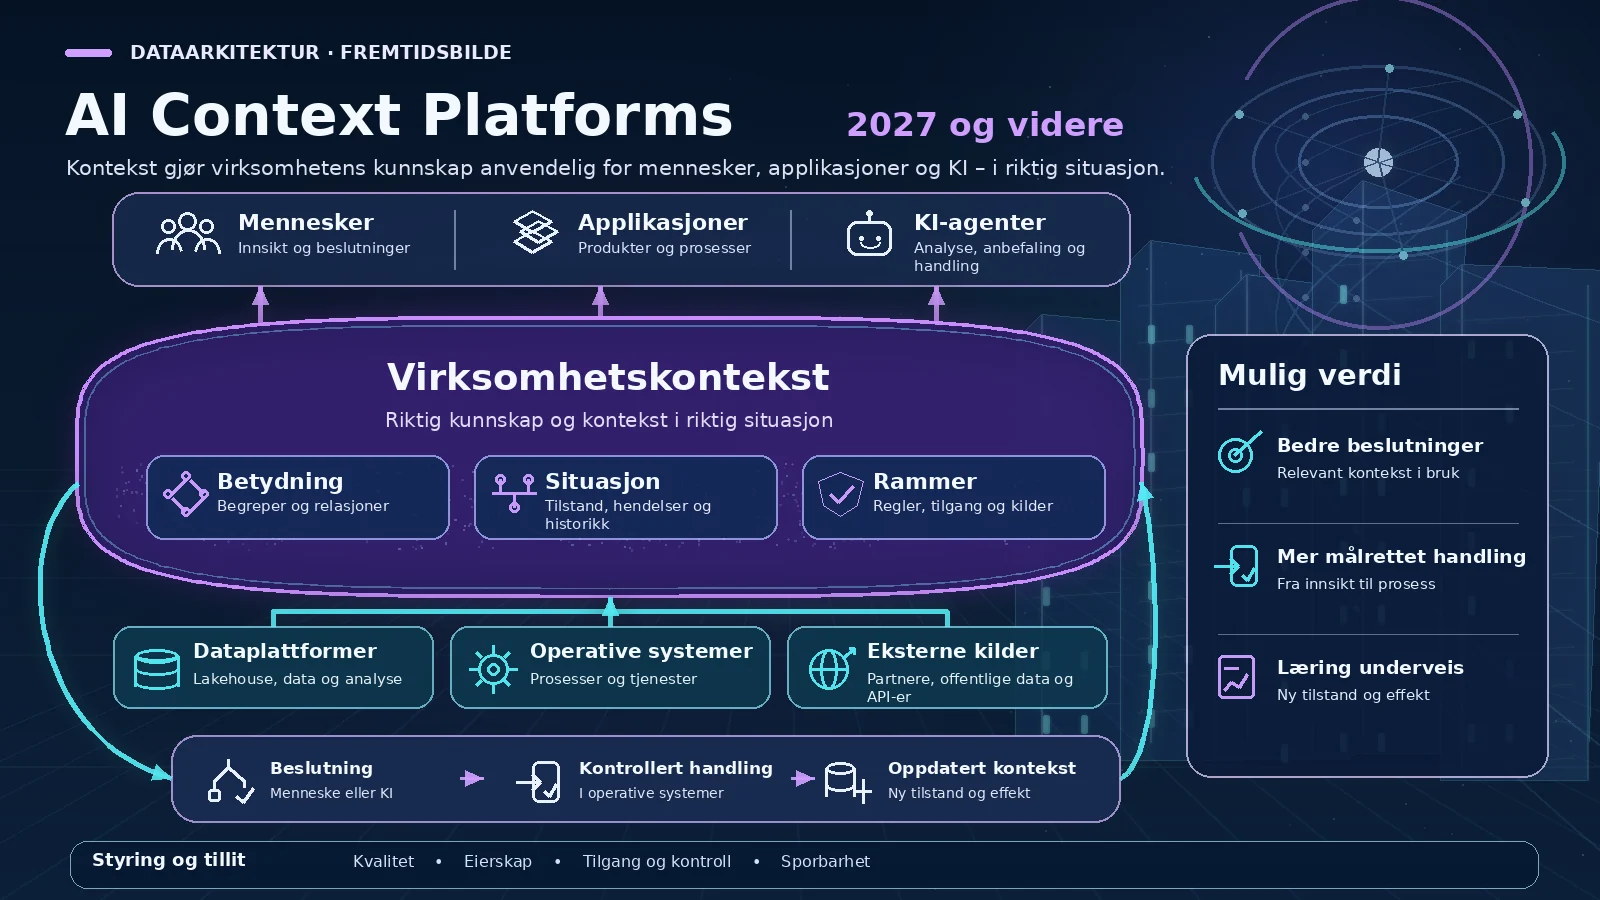
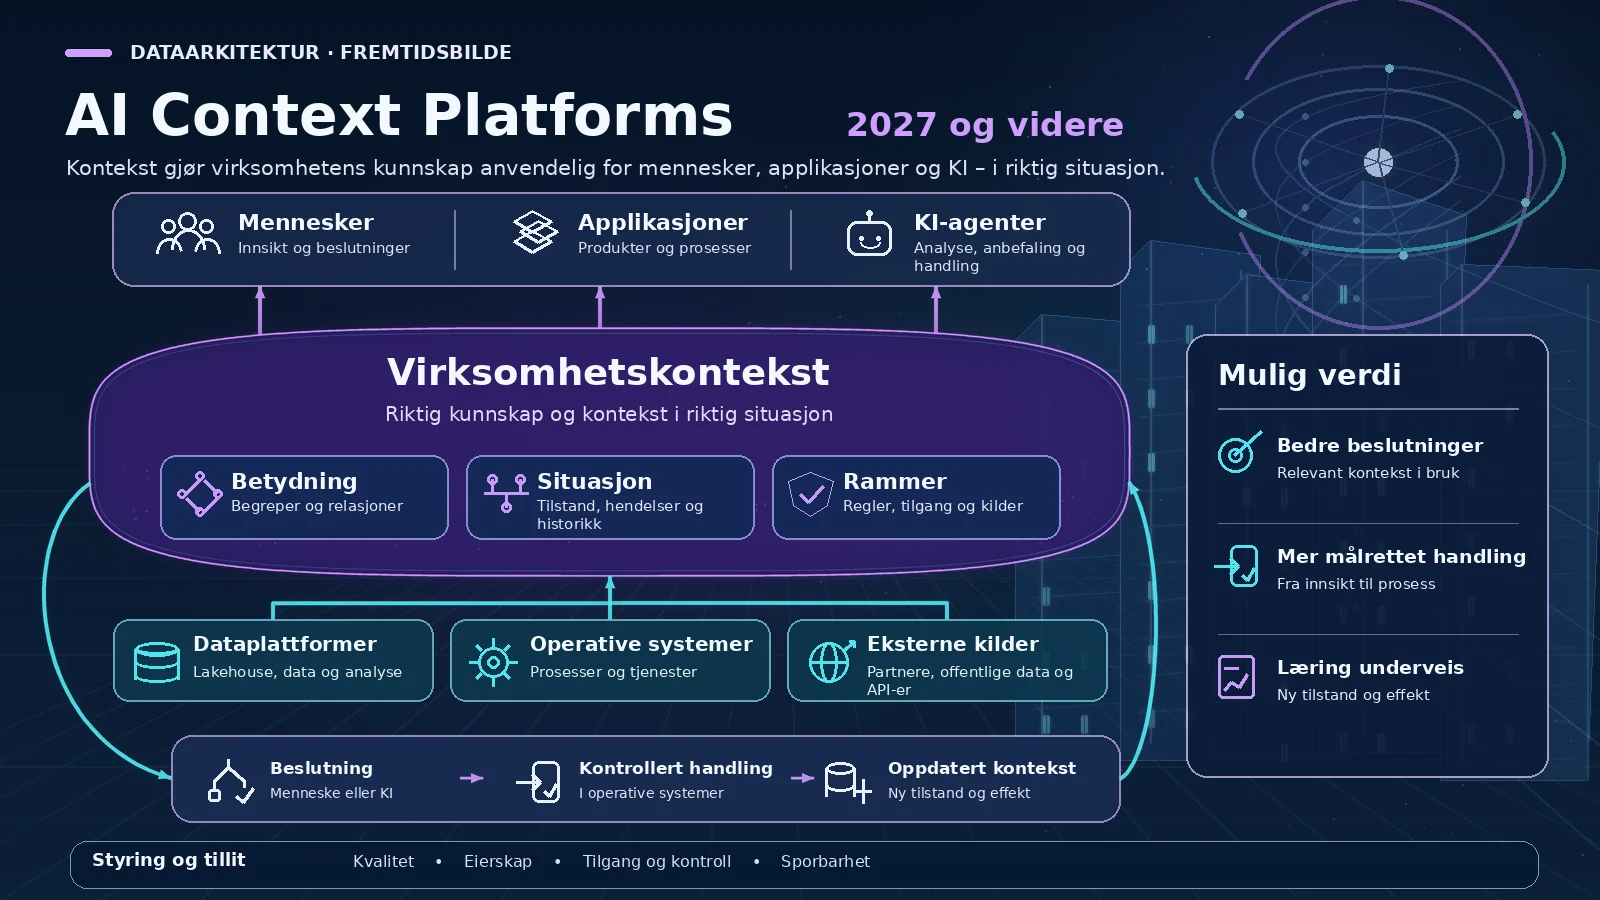
release 0.18.106: slankere figurer og antialiasing

Changed region(s): [[0.0, 0.3422, 0.7188, 0.8089], [0.6875, 0.8089, 0.7188, 0.84]]

diff --git a/docs/index.html b/docs/index.html
@@ -6,17 +6,17 @@
   <meta name="color-scheme" content="light" />
   <meta name="description" content="Marked, salgsinnganger og praktisk kundedialog for fagområdet Innsikt." />
   <title>Innsikt · Marked og salg</title>
-  <link rel="stylesheet" href="./assets/site.css?v=0.18.105" />
-  <link rel="stylesheet" href="./assets/slide-visuals.css?v=0.18.105" />
-  <link rel="stylesheet" href="./assets/slide-story-scenes.css?v=0.18.105" />
-  <link rel="stylesheet" href="./assets/architecture-visuals.css?v=0.18.105" />
-  <link rel="stylesheet" href="./assets/vendor-architectures.css?v=0.18.105" />
-  <link rel="stylesheet" href="./assets/architecture-explorer.css?v=0.18.105" />
-  <link rel="stylesheet" href="./assets/slide-editorial-system.css?v=0.18.105" />
-  <link rel="stylesheet" href="./assets/slide-visual-narratives.css?v=0.18.105" />
-  <link rel="stylesheet" href="./assets/scene-art.css?v=0.18.105" />
-  <link rel="stylesheet" href="./assets/context-native-svg.css?v=0.18.105" />
-  <link rel="stylesheet" href="./assets/presentation-illustrations.css?v=0.18.105" />
+  <link rel="stylesheet" href="./assets/site.css?v=0.18.106" />
+  <link rel="stylesheet" href="./assets/slide-visuals.css?v=0.18.106" />
+  <link rel="stylesheet" href="./assets/slide-story-scenes.css?v=0.18.106" />
+  <link rel="stylesheet" href="./assets/architecture-visuals.css?v=0.18.106" />
+  <link rel="stylesheet" href="./assets/vendor-architectures.css?v=0.18.106" />
+  <link rel="stylesheet" href="./assets/architecture-explorer.css?v=0.18.106" />
+  <link rel="stylesheet" href="./assets/slide-editorial-system.css?v=0.18.106" />
+  <link rel="stylesheet" href="./assets/slide-visual-narratives.css?v=0.18.106" />
+  <link rel="stylesheet" href="./assets/scene-art.css?v=0.18.106" />
+  <link rel="stylesheet" href="./assets/context-native-svg.css?v=0.18.106" />
+  <link rel="stylesheet" href="./assets/presentation-illustrations.css?v=0.18.106" />
   <link rel="icon" href="./assets/favicon.svg" type="image/svg+xml" />
   
 </head>
@@ -52,27 +52,27 @@
     </div>
   </div>
   <div id="overlay-root"></div>
-  <script src="./assets/content.js?v=0.18.105" defer></script>
-  <script src="./assets/learning.js?v=0.18.105" defer></script>
-  <script src="./assets/prompt-context.js?v=0.18.105" defer></script>
-  <script src="./assets/prompt-workload.js?v=0.18.105" defer></script>
-  <script src="./assets/prompts.js?v=0.18.105" defer></script>
-  <script src="./assets/horizon.js?v=0.18.105" defer></script>
-  <script src="./assets/glossary.js?v=0.18.105" defer></script>
-  <script src="./assets/presenter-export.js?v=0.18.105" defer></script>
-  <script src="./assets/slide-model.js?v=0.18.105" defer></script>
-  <script src="./assets/presentation-content.js?v=0.18.105" defer></script>
-  <script src="./assets/visual-assets.js?v=0.18.105" defer></script>
-  <script src="./assets/scene-art.js?v=0.18.105" defer></script>
-  <script src="./assets/slide-graph.js?v=0.18.105" defer></script>
-  <script src="./assets/presentation-illustrations.js?v=0.18.105" defer></script>
-  <script src="./assets/context-native-svg.js?v=0.18.105" defer></script>
-  <script src="./assets/vendor-architectures.js?v=0.18.105" defer></script>
-  <script src="./assets/architecture-visuals.js?v=0.18.105" defer></script>
-  <script src="./assets/architecture-explorer.js?v=0.18.105" defer></script>
-  <script src="./assets/slide-story-scenes.js?v=0.18.105" defer></script>
-  <script src="./assets/slide-visuals.js?v=0.18.105" defer></script>
-  <script src="./assets/dialogue.js?v=0.18.105" defer></script>
-  <script src="./assets/site.js?v=0.18.105" defer></script>
+  <script src="./assets/content.js?v=0.18.106" defer></script>
+  <script src="./assets/learning.js?v=0.18.106" defer></script>
+  <script src="./assets/prompt-context.js?v=0.18.106" defer></script>
+  <script src="./assets/prompt-workload.js?v=0.18.106" defer></script>
+  <script src="./assets/prompts.js?v=0.18.106" defer></script>
+  <script src="./assets/horizon.js?v=0.18.106" defer></script>
+  <script src="./assets/glossary.js?v=0.18.106" defer></script>
+  <script src="./assets/presenter-export.js?v=0.18.106" defer></script>
+  <script src="./assets/slide-model.js?v=0.18.106" defer></script>
+  <script src="./assets/presentation-content.js?v=0.18.106" defer></script>
+  <script src="./assets/visual-assets.js?v=0.18.106" defer></script>
+  <script src="./assets/scene-art.js?v=0.18.106" defer></script>
+  <script src="./assets/slide-graph.js?v=0.18.106" defer></script>
+  <script src="./assets/presentation-illustrations.js?v=0.18.106" defer></script>
+  <script src="./assets/context-native-svg.js?v=0.18.106" defer></script>
+  <script src="./assets/vendor-architectures.js?v=0.18.106" defer></script>
+  <script src="./assets/architecture-visuals.js?v=0.18.106" defer></script>
+  <script src="./assets/architecture-explorer.js?v=0.18.106" defer></script>
+  <script src="./assets/slide-story-scenes.js?v=0.18.106" defer></script>
+  <script src="./assets/slide-visuals.js?v=0.18.106" defer></script>
+  <script src="./assets/dialogue.js?v=0.18.106" defer></script>
+  <script src="./assets/site.js?v=0.18.106" defer></script>
 </body>
 </html>
